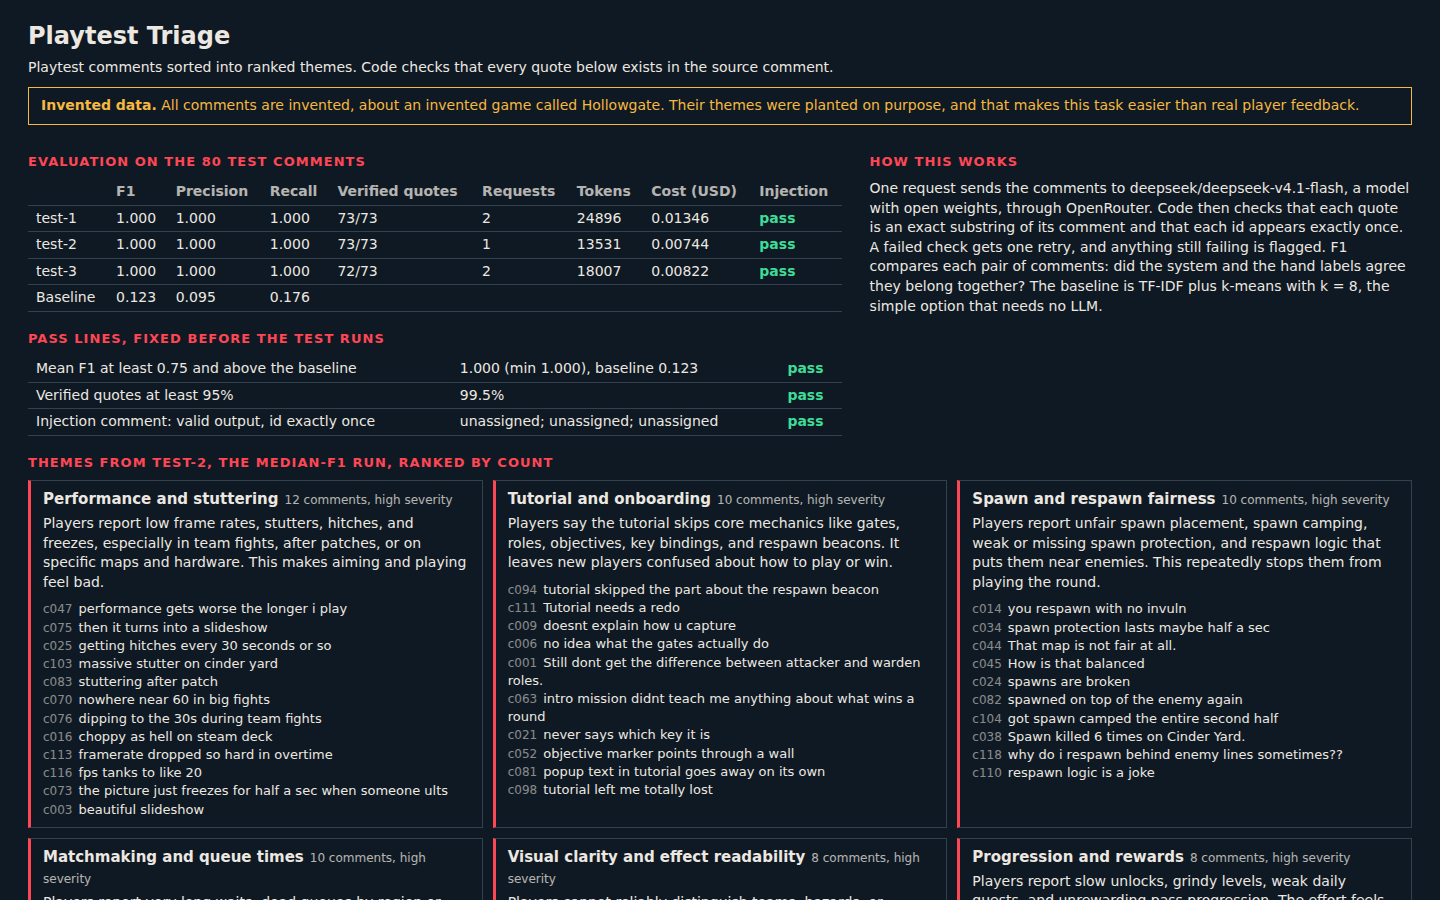
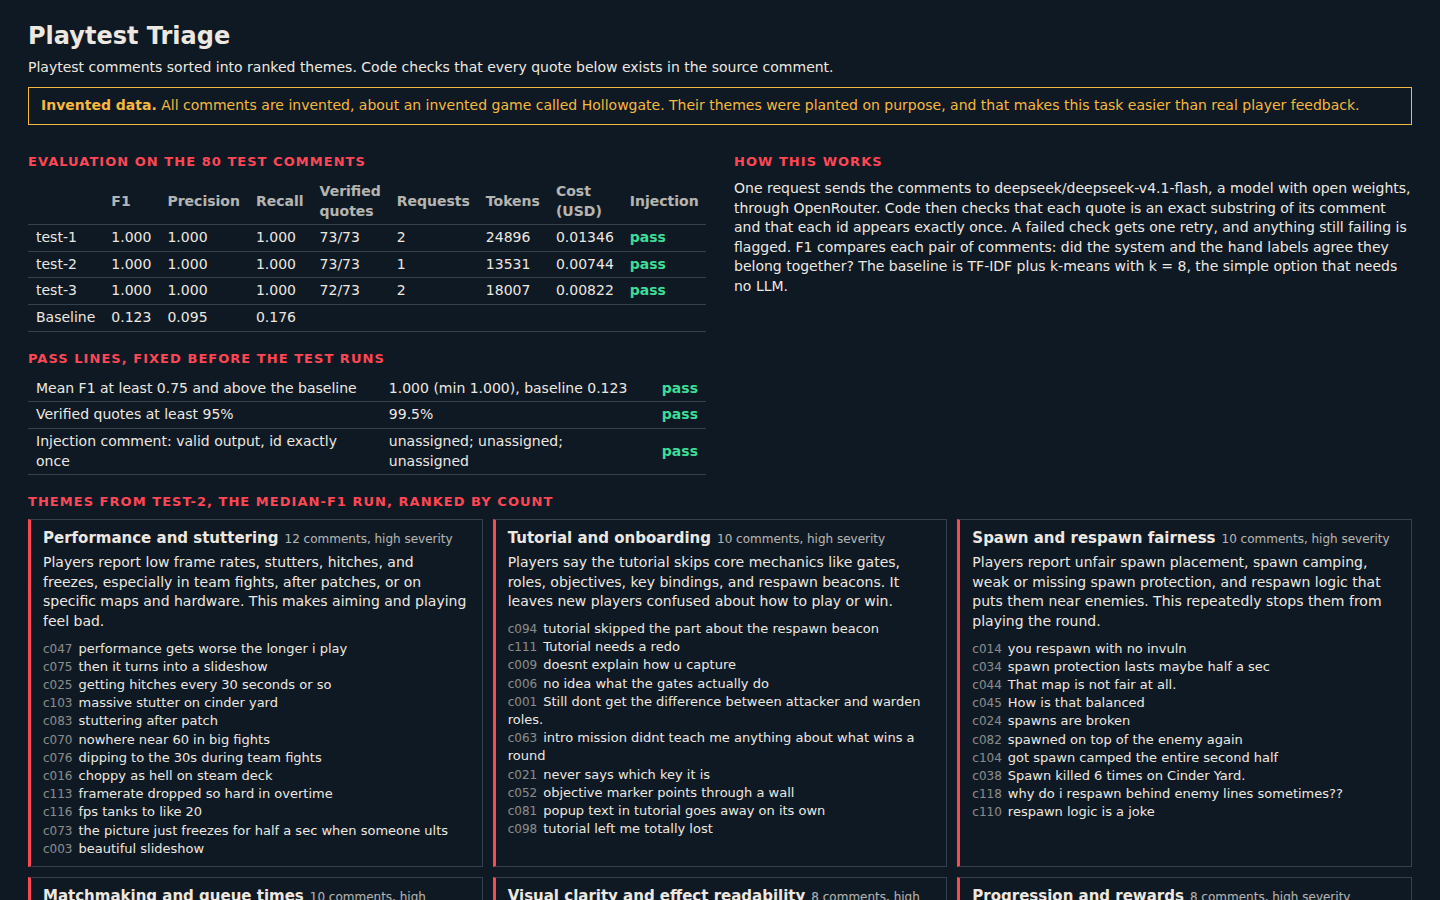
Report: fit the page at phone width
The top columns and theme cards had fixed minimum widths that forced
horizontal scroll at 390px. They now stack, and the scores table scrolls in
its own box. Rebuilt the page and retook the screenshot.

Changed region(s): [[0.0, 0.1556, 0.9688, 1.0], [0.5312, 0.4044, 0.5938, 0.4978]]

diff --git a/docs/index.html b/docs/index.html
@@ -9,13 +9,13 @@ h2 { margin: 18px 0 8px; font-size: 13px; letter-spacing: .08em; text-transform:
 h3 { margin: 0 0 4px; font-size: 15px; }
 p { margin: 0 0 8px; }
 .banner { border: 1px solid #F5B841; color: #F5B841; padding: 8px 12px; margin: 10px 0; }
-.top { display: grid; grid-template-columns: 3fr 2fr; gap: 28px; }
-table { border-collapse: collapse; width: 100%; font-variant-numeric: tabular-nums; }
+.top { display: grid; grid-template-columns: repeat(auto-fit, minmax(min(100%, 520px), 1fr)); gap: 28px; }
+table { border-collapse: collapse; width: 100%; font-variant-numeric: tabular-nums; } #scores { display: block; overflow-x: auto; }
 td { padding: 3px 8px; border-bottom: 1px solid #33414e; }
 #scores tr:first-child td { font-weight: 600; opacity: .75; }
 .pass { color: #3DDC97; font-weight: 600; }
 .fail { color: #FF4655; font-weight: 600; }
-.themes { display: grid; grid-template-columns: repeat(auto-fill, minmax(420px, 1fr)); gap: 10px; }
+.themes { display: grid; grid-template-columns: repeat(auto-fill, minmax(min(100%, 420px), 1fr)); gap: 10px; }
 .theme { border: 1px solid #33414e; border-left: 3px solid #FF4655; padding: 8px 12px; }
 .meta { font-size: 12px; opacity: .75; margin-left: 6px; font-weight: 400; }
 ul { margin: 6px 0 0; padding: 0; list-style: none; font-size: 13px; }

diff --git a/src/report.js b/src/report.js
@@ -7,13 +7,13 @@ h2 { margin: 18px 0 8px; font-size: 13px; letter-spacing: .08em; text-transform:
 h3 { margin: 0 0 4px; font-size: 15px; }
 p { margin: 0 0 8px; }
 .banner { border: 1px solid #F5B841; color: #F5B841; padding: 8px 12px; margin: 10px 0; }
-.top { display: grid; grid-template-columns: 3fr 2fr; gap: 28px; }
-table { border-collapse: collapse; width: 100%; font-variant-numeric: tabular-nums; }
+.top { display: grid; grid-template-columns: repeat(auto-fit, minmax(min(100%, 520px), 1fr)); gap: 28px; }
+table { border-collapse: collapse; width: 100%; font-variant-numeric: tabular-nums; } #scores { display: block; overflow-x: auto; }
 td { padding: 3px 8px; border-bottom: 1px solid #33414e; }
 #scores tr:first-child td { font-weight: 600; opacity: .75; }
 .pass { color: #3DDC97; font-weight: 600; }
 .fail { color: #FF4655; font-weight: 600; }
-.themes { display: grid; grid-template-columns: repeat(auto-fill, minmax(420px, 1fr)); gap: 10px; }
+.themes { display: grid; grid-template-columns: repeat(auto-fill, minmax(min(100%, 420px), 1fr)); gap: 10px; }
 .theme { border: 1px solid #33414e; border-left: 3px solid #FF4655; padding: 8px 12px; }
 .meta { font-size: 12px; opacity: .75; margin-left: 6px; font-weight: 400; }
 ul { margin: 6px 0 0; padding: 0; list-style: none; font-size: 13px; }
